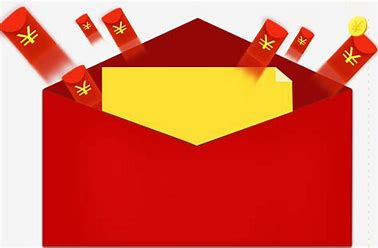
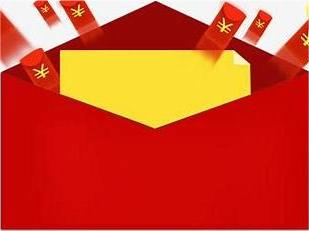
下雨

diff --git a/src/class/packet.js b/src/class/packet.js
@@ -1,0 +1,54 @@
+import defaultUrl from '../assets/OIP-C.jpg'
+import { sample,random} from 'lodash';
+export default class packet{
+    constructor(options){
+        //红包图片路径
+        this.url=options.url || defaultUrl;
+        //红包宽度
+        this.width=options.width || '18vw';
+        //红包高度
+        this.height=options.height || 'auto';
+        //红包轨迹
+        this.track=options.track || sample([0,20,40,60,80]);
+        //最终角度
+        this.rotate=options.rotate || random(-360,360);
+        //掉落速度
+        this.duration=options.duration || random(3.1,6.1);
+        //红包回调
+        this.callback=options.callback;
+        //放入容器
+        this.parent=options.parent || document.body;
+        this.create();
+    }
+    create(){
+        const img=document.createElement('img');
+        //图片地址
+        img.src=this.url;
+        //图片宽度
+        img.style.width=this.width;
+        //图片高度
+        img.style.height=this.height;
+        //图片的定位
+        img.style.position='absolute';
+        //图片的左边距
+        img.style.left=this.track+'vw';
+         //图片动画
+        img.animate([
+            {transform:'translateY(-20vh) rotate(0)'},
+            {transform:`translateY(100vh) rotate(${this.rotate}deg)`}    
+        ],{
+            duration:this.duration*1000
+        })
+        //图片的回调
+        img.ontouchstart=this.destory.bind(this,img);
+        //放入容器
+        this.parent.appendChild(img);
+        setTimeout(()=>{
+            img.remove()
+        },this.duration*1000)
+    }
+   destory(current){
+    current.remove();
+    this.callback();
+   }
+}

diff --git a/src/App.vue b/src/App.vue
@@ -1,17 +1,30 @@
 <template>
+  
   <countdown ref="test" @onfinish="finish"></countdown>
+  <div class="rain-container" ref="rainContainer"></div>
   <record :show="recordShow" @onclose="onclose"></record>
 </template>
 <script setup>
 import countdown from './components/countdown.vue';
-import record from './components/record.vue'
+import record from './components/record.vue';
+import packet from './class/packet'
 import {ref,onMounted} from 'vue'
 const test=ref(null);
+const rainContainer=ref(null);
 const recordShow=ref(false);
 const finish=function(e){
   
   //加载结束后挂载record组件
 recordShow.value=true;
+
+  setInterval(()=>{
+    new packet({
+    parent:rainContainer.value,
+    callback(){
+      console.log('你点击了红包')
+    }
+  })
+  },200)
 }
 // const clickd=function(){
   // console.log(test2.value);
@@ -24,6 +37,8 @@ const onclose=function(e){
 }
 onMounted(() => {
   test.value.Show(4100);
+  
+
 })
 
 </script>
@@ -31,5 +46,13 @@ onMounted(() => {
 
 
 <style  lang="scss" scoped>
-
+.rain-container{
+  position: fixed;
+  top:0;
+  left:0;
+  right: 0;
+  bottom: 0;
+  background-image: linear-gradient(180deg,rgb(235, 200, 136),rgb(245, 160, 3));
+  overflow: hidden;
+}
 </style>

diff --git a/src/components/HelloWorld.vue b/src/components/HelloWorld.vue
@@ -10,27 +10,7 @@ const count = ref(0)
 
 <template>
   <h1>{{ msg }}</h1>
-
-  <div class="card">
-    <button type="button" @click="count++">count is {{ count }}</button>
-    <p>
-      Edit
-      <code>components/HelloWorld.vue</code> to test HMR
-    </p>
-  </div>
-
-  <p>
-    Check out
-    <a href="https://vuejs.org/guide/quick-start.html#local" target="_blank"
-      >create-vue</a
-    >, the official Vue + Vite starter
-  </p>
-  <p>
-    Install
-    <a href="https://github.com/vuejs/language-tools" target="_blank">Volar</a>
-    in your IDE for a better DX
-  </p>
-  <p class="read-the-docs">Click on the Vite and Vue logos to learn more</p>
+  dada
 </template>
 
 <style scoped>
